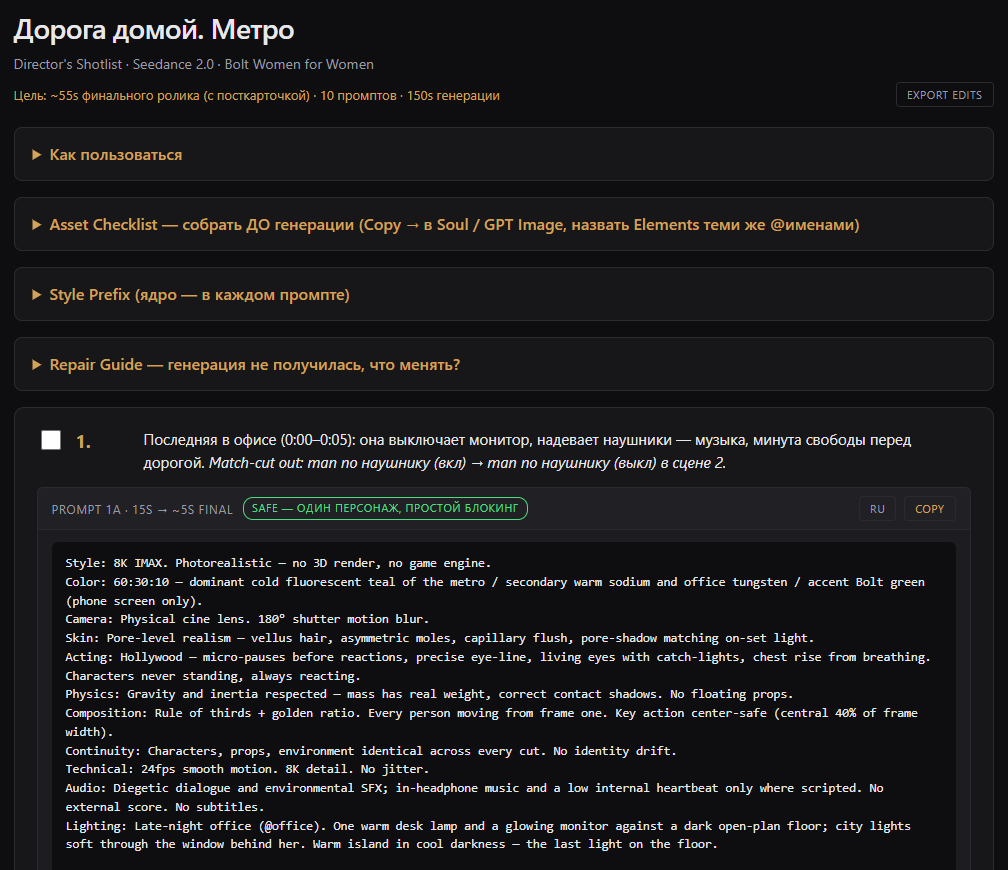
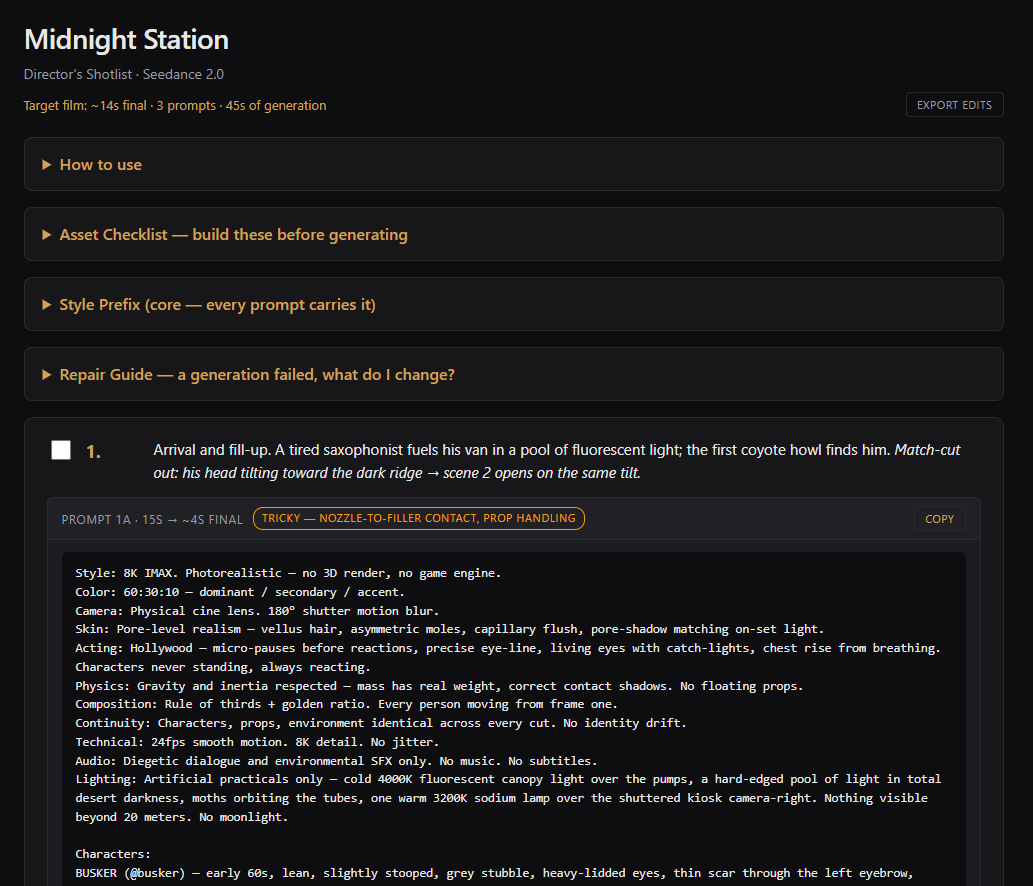
docs: real English board screenshot + caption fix
Replace the placeholder screenshot with an actual capture of an
English-language board (Midnight Station), and correct the README
caption — the EN edition is English-first, mirrors are the non-EN case.

diff --git a/README.md b/README.md
@@ -4,7 +4,7 @@ A Claude skill that turns a script (text, synopsis, a single scene) into a direc
 
 ![Production board: header with generation budget, Asset Checklist, Style Prefix, Repair Guide, and scenes with prompts](docs/board-screenshot.png)
 
-*The board UI renders in the user's language — the screenshot above comes from a Russian-language project, which is also why its prompts carry RU translation mirrors. For English users the board is English-only, no mirrors.*
+*The board UI renders in the user's language — English by default (shown above); non-English users additionally get read-only translation mirrors on every prompt.*
 
 ## How it works
 